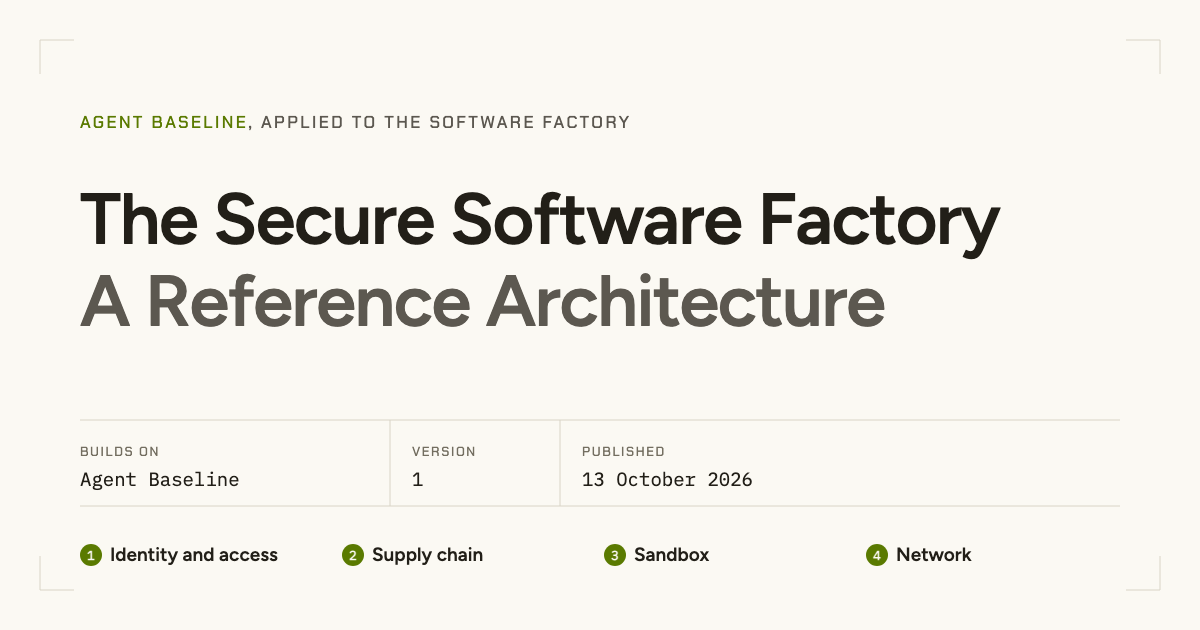
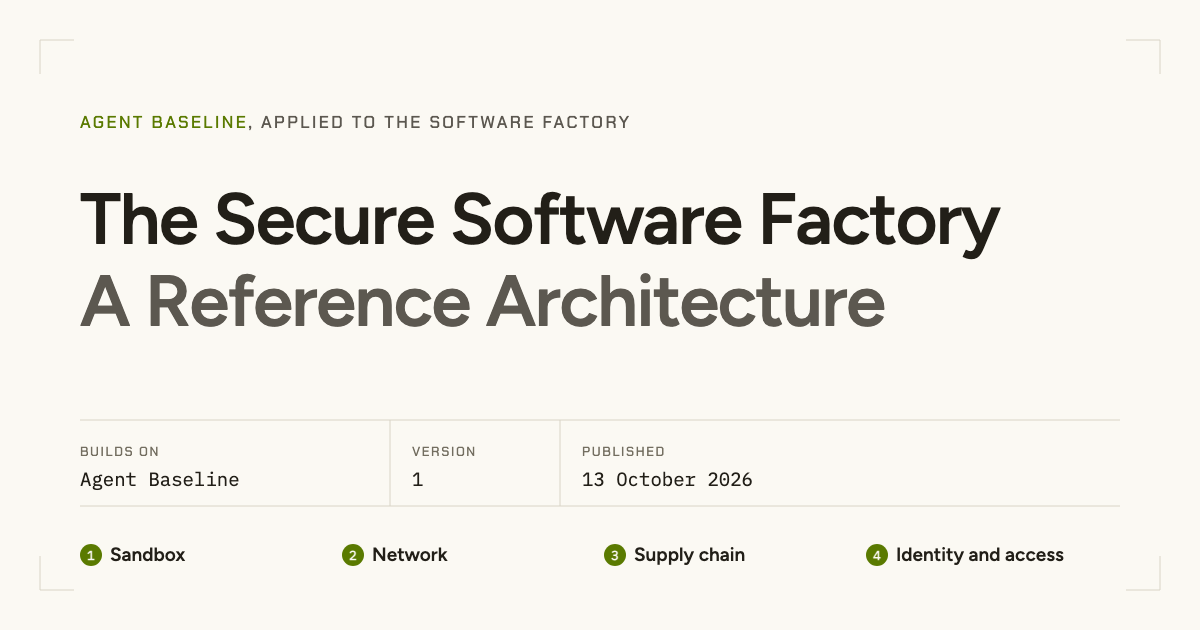
Put the share card's boundaries in the paper's order
The card and its alt text still listed the boundaries identity first.
bin/build-social now reads their numbers from the paper through the
figure generator, and the page builds the alt text from
boundaries.yaml, so both follow a reorder.

Claude-Session: https://claude.ai/code/session_018ganw17x6dHixfrKrZV5vu

diff --git a/layouts/reference-architecture.html b/layouts/reference-architecture.html
@@ -19,7 +19,10 @@
 <title>The Secure Software Factory: A Reference Architecture — Agent Baseline</title>
 <meta name="description" content="Four security boundaries for software factories, where AI agents turn tickets into tested code, enforced outside the agent at every level of autonomy.">
 <link rel="canonical" href="{{ strings.TrimSuffix "/" .Permalink }}">
-{{ partial "social-meta.html" (dict "ctx" . "title" "The Secure Software Factory: A Reference Architecture" "desc" "Four security boundaries for software factories, where AI agents turn tickets into tested code, enforced outside the agent at every level of autonomy. Built on Agent Baseline." "image" (printf "social-card-software-factory-v%s.png" .Site.Params.softwareFactory.version) "alt" (printf "The Secure Software Factory: A Reference Architecture. Builds on Agent Baseline, version %s, published %s. Four boundaries: identity and access, supply chain, sandbox, network." .Site.Params.softwareFactory.version .Site.Params.softwareFactory.published)) }}
+{{- /* The share card's alt names the boundaries in the paper's order, as the card
+       (bin/build-social) and the page's list do. */}}
+{{- $boundaries := slice }}{{ range hugo.Data.sfboundaries.boundaries }}{{ $boundaries = $boundaries | append (lower .name) }}{{ end }}
+{{ partial "social-meta.html" (dict "ctx" . "title" "The Secure Software Factory: A Reference Architecture" "desc" "Four security boundaries for software factories, where AI agents turn tickets into tested code, enforced outside the agent at every level of autonomy. Built on Agent Baseline." "image" (printf "social-card-software-factory-v%s.png" .Site.Params.softwareFactory.version) "alt" (printf "The Secure Software Factory: A Reference Architecture. Builds on Agent Baseline, version %s, published %s. Four boundaries: %s." .Site.Params.softwareFactory.version .Site.Params.softwareFactory.published (delimit $boundaries ", "))) }}
 <link rel="icon" href="/icon.svg" type="image/svg+xml">
 <link rel="apple-touch-icon" href="/icon-512.png">
 <link rel="icon" href="/icon-512.png" sizes="512x512" type="image/png">
